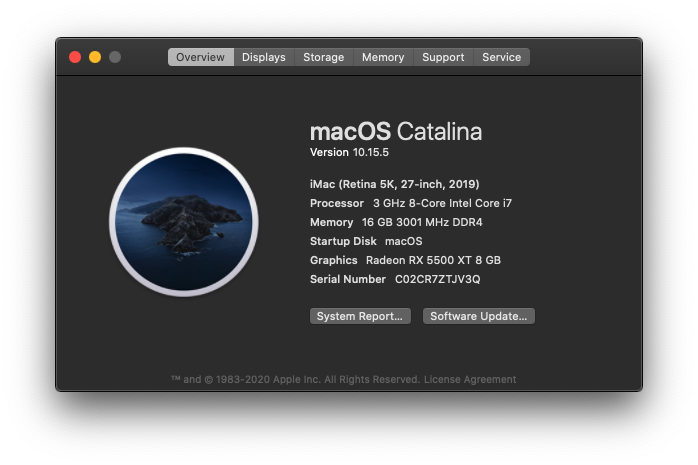
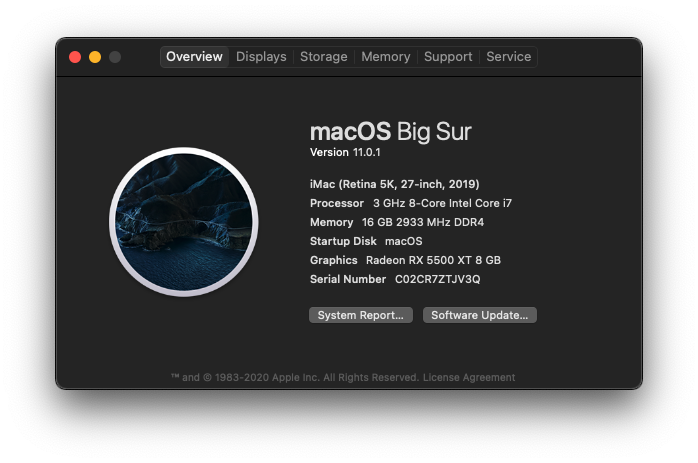
Update readme file

diff --git a/README.md b/README.md
@@ -8,11 +8,11 @@ SSD: SSD Samsung 970 EVO Plus PCIe NVMe V-NAND M.2 2280 250GB MZ-V7S250BW<br>
 
 ### OpenCore
 
-Version: 0.6.2
+Version: 0.6.3
 
 ### MacOS
 
-10.15.7
+11.0.1
 
 ### What's Working
 
